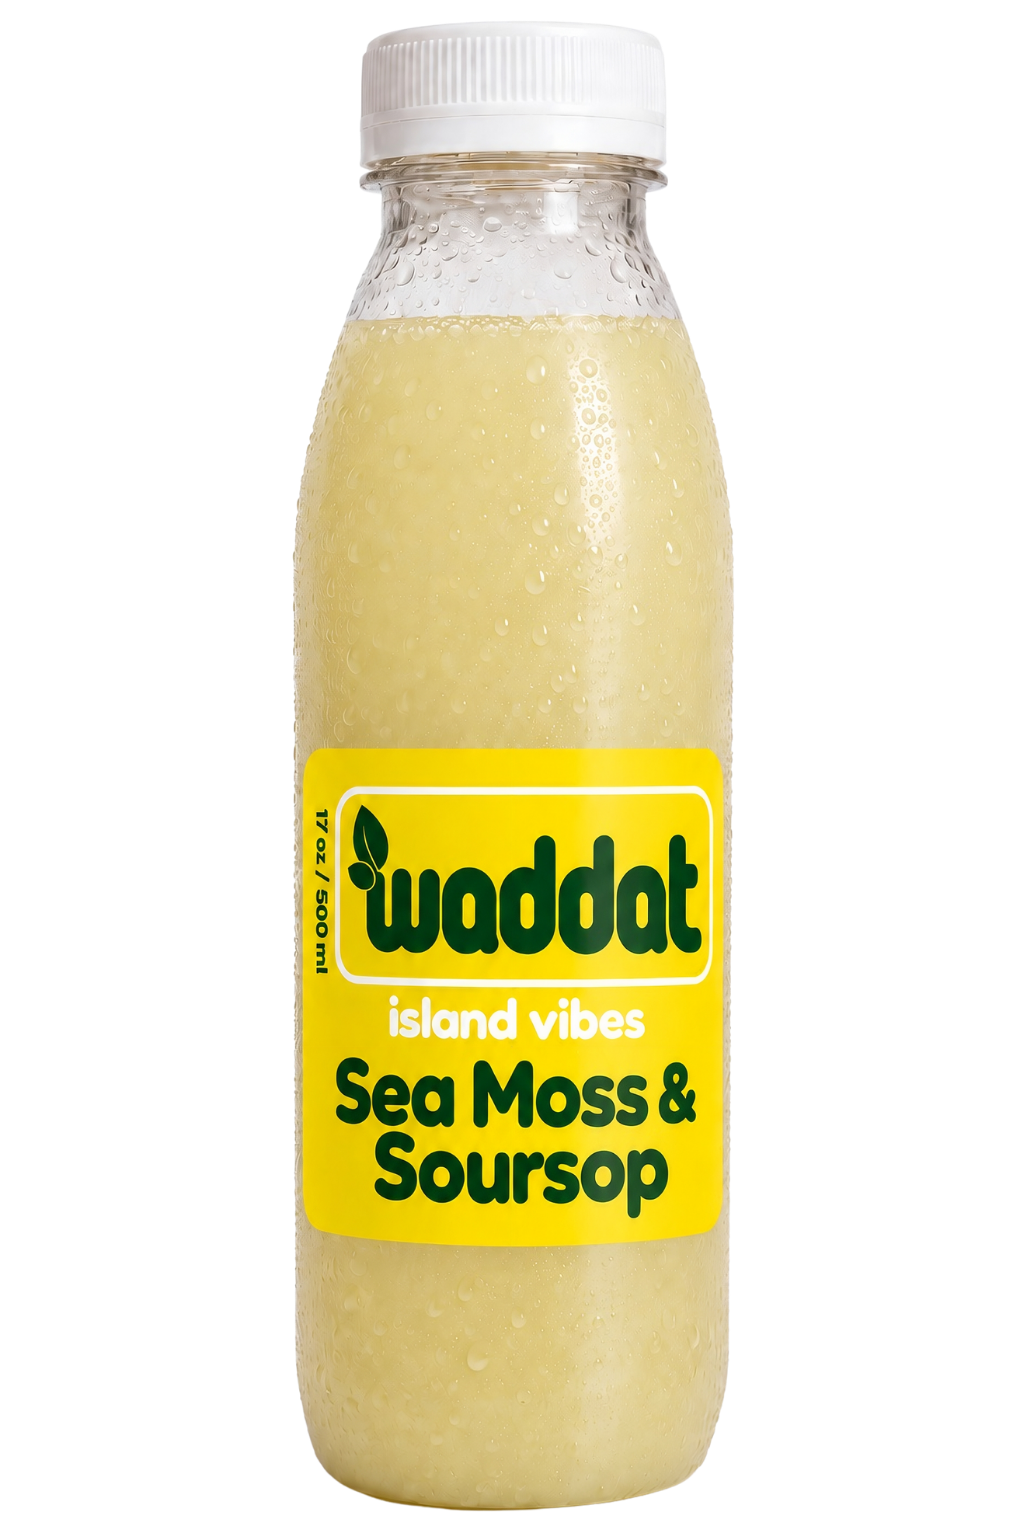
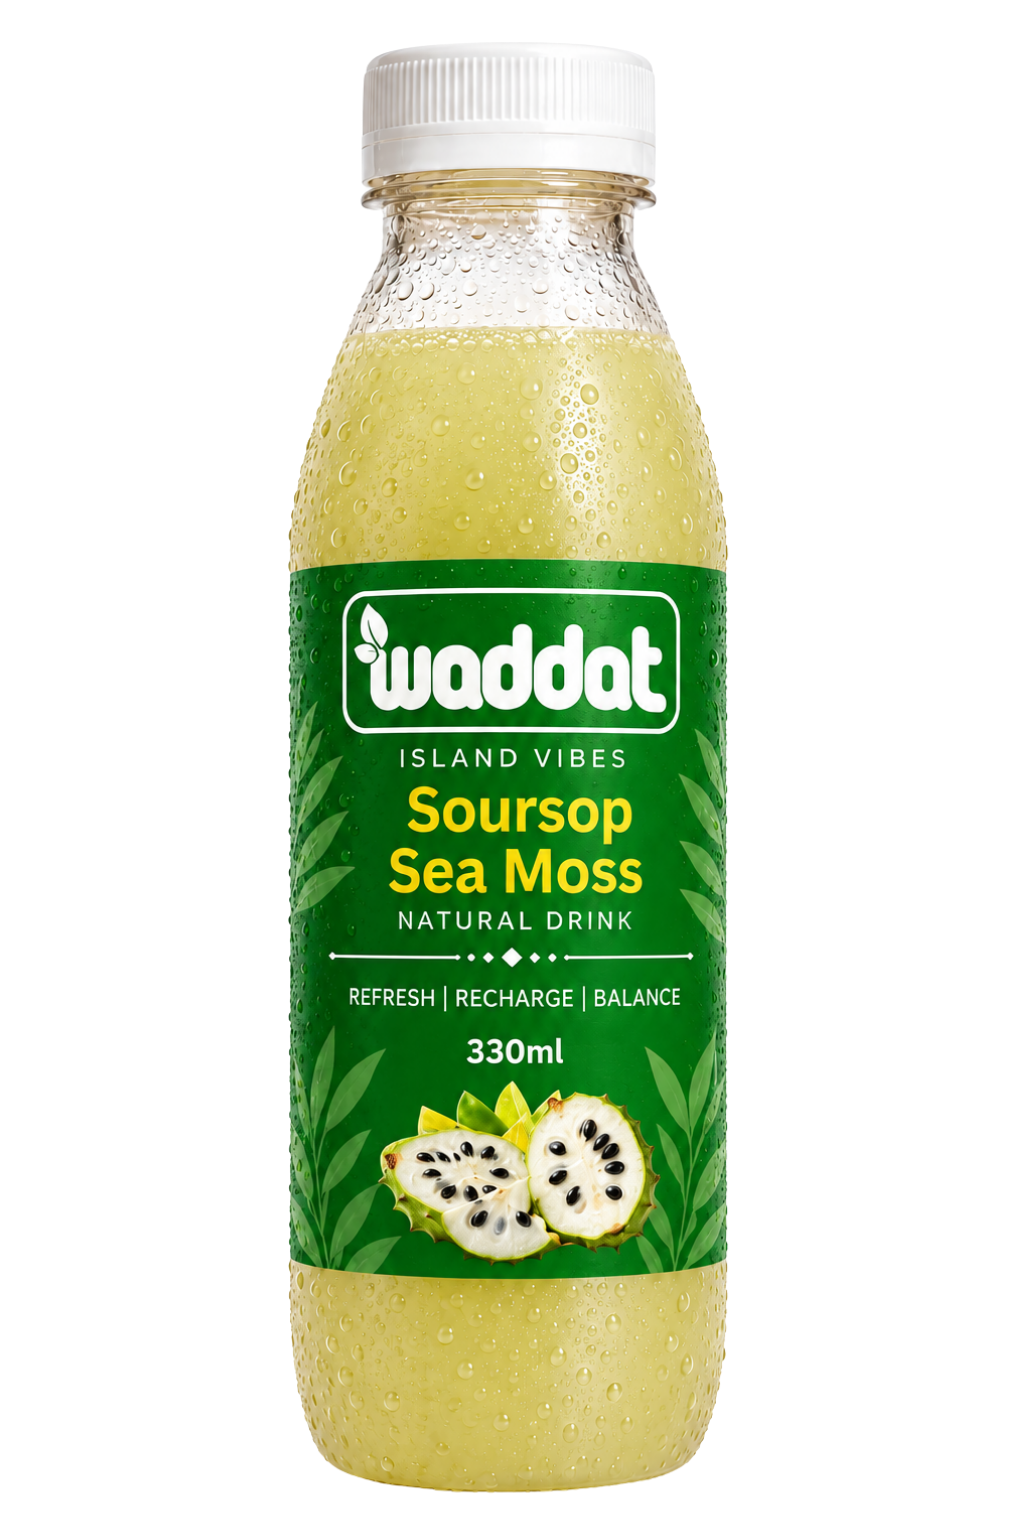
Update dist build artifacts

Changed region(s): [[0.2812, 0.0, 0.7188, 1.0]]

diff --git a/dist/index.html b/dist/index.html
@@ -483,7 +483,7 @@
             /><img
               src="/hero-soursop-bottle.png"
               loading="eager"
-              alt="Sea Moss & Soursop"
+              alt="Soursop Sea Moss"
               class="hero-bottle-img"
             />
             <div
@@ -588,14 +588,14 @@
                             loading="lazy"
                             width="658"
                             data-wf-sku-bindings="%5B%7B%22from%22%3A%22f_main_image_4dr%22%2C%22to%22%3A%22src%22%7D%5D"
-                            alt="Sorrel Drink"
-                            src="/sorrel-drink.png"
+                            alt="Sorrel"
+                            src="/sorrel-3f.png"
                             class="product-picture"
                           /></div></a
                       ><a
                         href="/product/sorrel-drink"
                         class="product-meta-wrapper w-inline-block"
-                        ><h3 class="product-name">Sorrel Drink</h3>
+                        ><h3 class="product-name">Sorrel</h3>
                         <div
                           data-wf-sku-bindings="%5B%7B%22from%22%3A%22f_price_%22%2C%22to%22%3A%22innerHTML%22%7D%5D"
                           class="product-price"
@@ -723,14 +723,14 @@
                             loading="lazy"
                             width="658"
                             data-wf-sku-bindings="%5B%7B%22from%22%3A%22f_main_image_4dr%22%2C%22to%22%3A%22src%22%7D%5D"
-                            alt="Irish Moss & Soursop"
-                            src="/irish-moss-soursop.png"
+                            alt="Soursop Sea Moss"
+                            src="/soursop-sea-moss-3f.png"
                             class="product-picture"
                           /></div></a
                       ><a
                         href="/product/irish-moss-soursop"
                         class="product-meta-wrapper w-inline-block"
-                        ><h3 class="product-name">Sea Moss & Soursop</h3>
+                        ><h3 class="product-name">Soursop Sea Moss</h3>
                         <div
                           data-wf-sku-bindings="%5B%7B%22from%22%3A%22f_price_%22%2C%22to%22%3A%22innerHTML%22%7D%5D"
                           class="product-price"
@@ -858,14 +858,14 @@
                             loading="lazy"
                             width="658"
                             data-wf-sku-bindings="%5B%7B%22from%22%3A%22f_main_image_4dr%22%2C%22to%22%3A%22src%22%7D%5D"
-                            alt="Ginger Shot"
-                            src="/ginger-shot.png"
+                            alt="Ginger"
+                            src="/ginger-3f.png"
                             class="product-picture"
                           /></div></a
                       ><a
                         href="/product/ginger-shot"
                         class="product-meta-wrapper w-inline-block"
-                        ><h3 class="product-name">Ginger Shot</h3>
+                        ><h3 class="product-name">Ginger</h3>
                         <div
                           data-wf-sku-bindings="%5B%7B%22from%22%3A%22f_price_%22%2C%22to%22%3A%22innerHTML%22%7D%5D"
                           class="product-price"
@@ -992,15 +992,14 @@
                           <img
                             loading="lazy"
                             width="658"
-                            alt="Sea Moss, Guava & Banana"
-                            src="/irish-moss-guava-banana.png"
+                            alt="Lemonade"
+                            src="/lemonade-3f.png"
                             class="product-picture"
-                            style="transform: rotate(-14deg);"
                           /></div></a
                       ><a
                         href="/product/irish-moss-guava-banana"
                         class="product-meta-wrapper w-inline-block"
-                        ><h3 class="product-name">Sea Moss, Guava &amp; Banana</h3>
+                        ><h3 class="product-name">Lemonade</h3>
                         <div
                           class="product-price"
                         >
@@ -1039,14 +1038,14 @@
                           <img
                             loading="lazy"
                             width="658"
-                            alt="Sea Moss & Pineapple"
-                            src="/irish-moss-pineapple.png"
+                            alt="Pineapple Sea Moss"
+                            src="/pineapple-sea-moss-3f.png"
                             class="product-picture"
                           /></div></a
                       ><a
                         href="/product/irish-moss-pineapple"
                         class="product-meta-wrapper w-inline-block"
-                        ><h3 class="product-name">Sea Moss &amp; Pineapple</h3>
+                        ><h3 class="product-name">Pineapple Sea Moss</h3>
                         <div
                           class="product-price"
                         >
@@ -1141,7 +1140,7 @@
                   class="about_thumbnail-wrapper"
                 >
                   <img
-                    src="/sorrel-drink.png"
+                    src="/sorrel-3f.png"
                     loading="lazy"
                     style="
                       -webkit-transform: translate3d(0, 20px, 0)
@@ -1156,7 +1155,7 @@
                       opacity: 0;
                     "
                     data-w-id="3ba25109-6c63-1667-b1a1-6def56f2a990"
-                    alt="Sorrel Drink Bottle"
+                    alt="Sorrel Bottle"
                     class="about_thumbnail"
                   />
                   <div class="about-image-wrapper">
@@ -1236,11 +1235,11 @@
                     "
                   >
                     <img
-                      src="/irish-moss-pineapple.png"
+                      src="/pineapple-sea-moss-3f.png"
                       loading="lazy"
                       width="658"
                       data-w-id="582e3428-ba09-a4de-04a7-a1853a25be12"
-                      alt="Sea Moss & Pineapple"
+                      alt="Pineapple Sea Moss"
                       class="shaped-image_picture"
                       style="max-width: 18rem;"
                     />
